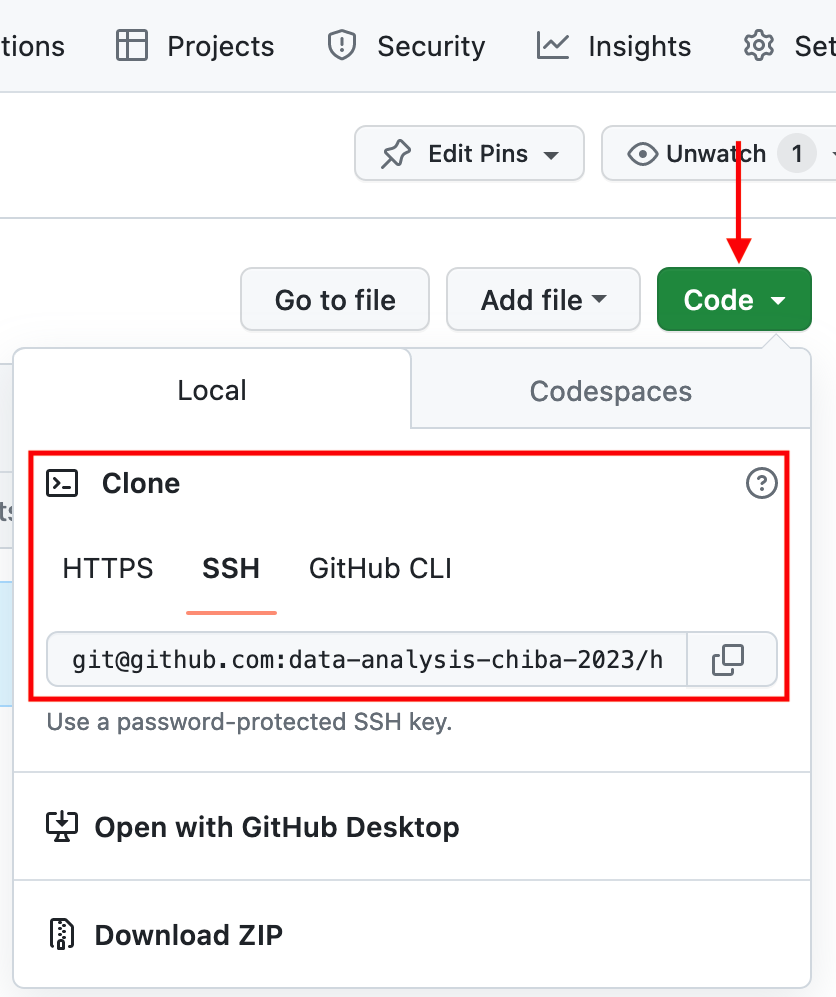
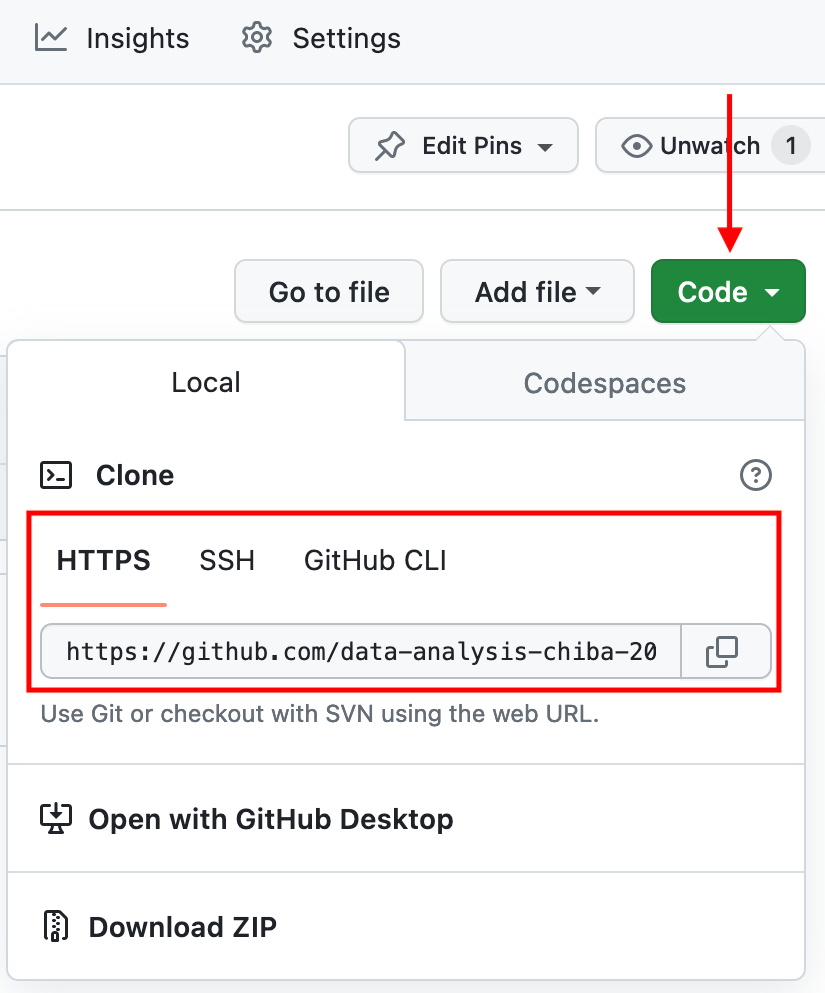
Update materials to use HTTPS

diff --git a/day02_intro_to_git.md b/day02_intro_to_git.md
@@ -313,11 +313,48 @@ user, who’s allowed to do whatever we’re asking to do.
 Git can communicate with a remote server using one of two protocols,
 HTTPS or SSH, and the different protocols use different credentials.
 
-For this course, we will use SSH.
+Here we describe the credential setup for the HTTPS protocol, which is
+what we recommend if you have no burning reason to pick SSH (if so, head
+to [Ch 10 of Happy Git and GitHub for the
+useR](https://happygitwithr.com/ssh-keys.html)). With HTTPS, we will use
+a personal access token (PAT).
 
-SSH keys provide a more secure way of logging into a server than using a password alone. While a password can eventually be cracked with a brute force attack, SSH keys are nearly impossible to decipher by brute force alone. Generating a key pair provides you with two long strings of characters: a public and a private key. You can place the public key on any server (like GitHub!), and then unlock it by connecting to it with a client that already has the private key (your computer!). When the two match up, the system unlocks without the need for a password. You can increase security even more by protecting the private key with a passphrase.
+Let it be known that the password that you use to login to GitHub’s
+website is NOT an acceptable credential when talking to GitHub as a Git
+server. This was possible in the past (and may yet be true for other Git
+servers), but those days are over at GitHub. You can learn more in their
+blog post [Token authentication requirements for Git
+operations](https://github.blog/2020-12-15-token-authentication-requirements-for-git-operations/).
 
-The instructor will help you set up your SSH keys, but for additional, detailed instructions, please see [Set up keys for SSH](https://happygitwithr.com/ssh-keys.html) of of [Happy Git and GitHub for the useR](http://happygitwithr.com/).
+Here’s the error you’ll see if you try to do that now:
+
+    remote: Support for password authentication was removed on August 13, 2021. Please use a personal access token instead.
+    remote: Please see https://github.blog/2020-12-15-token-authentication-requirements-for-git-operations/ for more information.
+    fatal: Authentication failed for 'https://github.com/OWNER/REPO.git/'
+
+This is a very minimal account of getting and storing a PAT. This might
+be all you need when you’re first getting yourself set up. If you run
+into trouble, ask the instructor, and refer to the detailed description in [Ch 9
+of Happy Git and GitHub for the
+useR](https://happygitwithr.com/https-pat.html).
+
+Go to <https://github.com/settings/tokens> and click “Generate token” (or use `usethis::create_github_token()` from R).
+
+Look over the scopes; I highly recommend selecting “repo”, “user”, and
+“workflow”.
+
+Click “Generate token”.
+
+Copy the generated PAT to your clipboard. Leave that browser window open
+and available for a little while, so you can come back to copy the PAT.
+**Once you close the window, you won’t be able to see the PAT** (but you
+can generate a new one). You’ll want to store the PAT securely, like in
+a password manager (NOT in a repo that gets pushed to GitHub!!) so you
+can reuse it until it expires.
+
+Next, you need to save your PAT to a secure place on your computer and configure git to use this for authentication. We will do this in R.
+
+First, install the "gitcreds" R package with `install.packages("gitcreds")`. Next, run `gitcreds::gitcreds_set()` and enter your PAT when prompted. That's it - now you should be able to communicate with GitHub without providing your password (or token) every time.
 
 #### Set the default branch name to main
 
@@ -451,9 +488,9 @@ repository on your machine.
 Make sure you have the latest version of RStudio installed before you
 start.
 
-Copy the **SSH** (not HTTPS, since we set up authentication with SSH) link from your GitHub repository website. It will be
+Copy the **HTTPS** (not SSH, since we set up authentication with your PAT) link from your GitHub repository website. It will be
 something like
-`git@github.com:data-analysis-chiba-2023/first-repo-joelnitta.git` See
+`https://github.com/data-analysis-chiba-2023/first-repo-joelnitta.git` See
 below.
 
 ![Repository link screenshot](images/create_repository_success_link.png)
@@ -462,7 +499,7 @@ below.
 empty repository, for some future assignments, the repository created
 for you will already contain files. In that case, **to find the
 “repository URL”, locate the green “Code” button on the upper right
-corner of the file list as shown below. Be sure to select "SSH", since that is how we have set up your authentication method.**
+corner of the file list as shown below. Be sure to select "HTTPS", since that is how we have set up your authentication method.**
 
 ![GitHub clone](images/clone.png)
 
